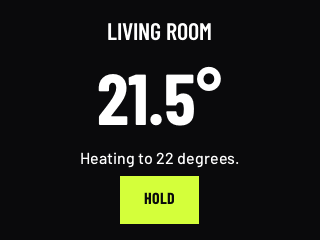
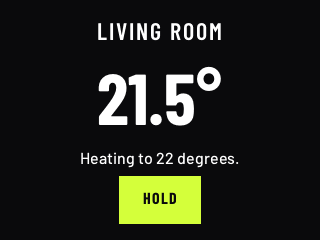
feat(signal): letter spacing for titles and labels
The design said that titles and labels have wide spacing, and gave no
number. The owner chose 8 percent of the size, in whole pixels: 2 px
for the title, 1 px for the label.

- The design file and the type tokens hold the two values.
- The typed themes space the text of a button.
- The example merges the title's token into its style.

diff --git a/tests/signal_type.cpp b/tests/signal_type.cpp
@@ -19,14 +19,16 @@ constexpr auto text = lv::signal::type_tokens.text;
 
 // The tokens are Signal's: design/signal/tokens.design.json, "type". `line` is the line
 // height in pixels, which the token holds as a multiple of the size.
-consteval bool is(const lv::token<lv::typography_token>& t, std::string_view family, int size, int weight, int line) {
+consteval bool is(const lv::token<lv::typography_token>& t, std::string_view family, int size, int weight, int line,
+                  int spacing = 0) {
   return t->font_family == family && t->font_size == size * px && t->font_weight == weight &&
-         static_cast<int>(size * t->line_height + 0.5) == line && t->letter_spacing == 0 * px;
+         static_cast<int>(size * t->line_height + 0.5) == line && t->letter_spacing == spacing * px;
 }
 static_assert(*lv::signal::type_tokens.font.display == "Barlow Condensed" && *lv::signal::type_tokens.font.text == "Barlow");
 static_assert(is(text.numeral_2xl, "Barlow Condensed", 208, 700, 176) && is(text.numeral_xl, "Barlow Condensed", 104, 700, 94));
 static_assert(is(text.numeral_l, "Barlow Condensed", 72, 700, 66) && is(text.numeral_m, "Barlow Condensed", 40, 700, 40));
-static_assert(is(text.title, "Barlow Condensed", 24, 600, 28) && is(text.label, "Barlow Condensed", 16, 700, 20));
+// Capitals with wide spacing: 8 percent of the size, in whole pixels.
+static_assert(is(text.title, "Barlow Condensed", 24, 600, 28, 2) && is(text.label, "Barlow Condensed", 16, 700, 20, 1));
 static_assert(is(text.body, "Barlow", 16, 500, 22) && is(text.caption, "Barlow", 13, 500, 18));
 
 static_assert(!lv::signal::dark_with_type.empty() && !lv::signal::day_with_type.empty());
@@ -97,6 +99,10 @@ void sets_text(lv::theme_styles theme, const char* reference) {
   lv_obj_t* button = lv_button_create(box);
   check(font_of(button) == label && font_of(lv_label_create(button)) == label);
   check(font_of(lv_label_create(lv_obj_create(button))) == label);
+  // The text of a button is spaced as `label` says; other text is not.
+  check(lv_obj_get_style_text_letter_space(button, LV_PART_MAIN) == 1);
+  check(lv_obj_get_style_text_letter_space(lv_label_create(button), LV_PART_MAIN) == 1);
+  check(lv_obj_get_style_text_letter_space(lv_label_create(screen), LV_PART_MAIN) == 0);
   // A widget that the theme leaves to LVGL has the font of the screen too.
   check(font_of(lv_checkbox_create(screen)) == body);
   lv_obj_clean(screen);

diff --git a/include/lv/signal.hpp b/include/lv/signal.hpp
@@ -36,12 +36,13 @@ inline constexpr auto hidden = lv::raw(lv::opa::transparent);
 
 // The font of a kind of text. An empty one sets nothing, and the text keeps LVGL's font.
 using font = lv::arg<lv::styled<const lv_font_t*>>;
+using spacing = lv::arg<lv::styled<lv::length>>;
 
 // Signal with the tokens of one of its themes. This is the one description of the look:
 // lv/signal_type.hpp calls it with Signal's fonts. `body` is the font of all text, and
 // `label` the font of the text of a control.
 template <const auto& Tok>
-consteval lv::theme_styles themed(font body = {}, font label = {}) {
+consteval lv::theme_styles themed(font body = {}, font label = {}, spacing label_spacing = {}) {
   return lv::theme({
       // A ring shows progress or a reading: square ends, no knob.
       .arc = {.style = {.arc_color = Tok.color.line, .arc_rounded = false, .arc_width = Tok.stroke.track},
@@ -59,7 +60,8 @@ consteval lv::theme_styles themed(font body = {}, font label = {}) {
                            .radius = Tok.radius._0,
                            .shadow_width = Tok.radius._0,
                            .text_color = Tok.color.on_active,
-                           .text_font = label},
+                           .text_font = label,
+                           .text_letter_space = label_spacing},
                  .style_pressed = {.bg_color = Tok.color.surface_raised,
                                    .color_filter_opa = hidden,
                                    .text_color = Tok.color.reading,

diff --git a/include/lv/signal_type.hpp b/include/lv/signal_type.hpp
@@ -80,7 +80,11 @@ inline constexpr lv::typeface numerals{
 inline constexpr auto body_font = type(type_tokens.text.body);
 inline constexpr auto label_font = type(type_tokens.text.label);
 
-inline constexpr lv::theme_styles dark_with_type = detail::themed<dark_tokens>(body_font, label_font);
-inline constexpr lv::theme_styles day_with_type = detail::themed<day_tokens>(body_font, label_font);
+
+// `label` is set with wide spacing: the space between its letters comes from the token too.
+inline constexpr auto label_spacing = lv::detail::part(type_tokens.text.label->letter_spacing);
+
+inline constexpr lv::theme_styles dark_with_type = detail::themed<dark_tokens>(body_font, label_font, label_spacing);
+inline constexpr lv::theme_styles day_with_type = detail::themed<day_tokens>(body_font, label_font, label_spacing);
 
 }  // namespace lv::signal

diff --git a/examples/signal_type/main.cpp b/examples/signal_type/main.cpp
@@ -23,7 +23,7 @@ constexpr auto reading = lv::signal::numerals(text.numeral_l);  // 72 px, the si
 constexpr auto ui = lv::column({.flex_align = {"center", "center", "center"},
                                 .size = {320 * px, 240 * px},
                                 .style = {.pad_gap = lv::signal::dark_tokens.space._2}})[
-    lv::label({.style = {.text_font = title}, .text = "LIVING ROOM"}),
+    lv::label({.style = lv::style({.text_font = title}) | text.title, .text = "LIVING ROOM"}),  // and its spacing
     lv::label({.style = {.text_font = reading}, .text = "21.5°"}),
     lv::label({.text = "Heating to 22 degrees."}),
     lv::button[lv::label({.text = "HOLD"})]];

diff --git a/design/signal/README.md b/design/signal/README.md
@@ -1,4 +1,4 @@
-Signal is the look of one family of eight devices: a smart thermostat, a smartwatch, a kitchen appliance, an e-bike display, a machine panel, an EV charger, a medical device and a vehicle instrument cluster. It is made to be drawn by a microcontroller and read at a glance.
+Signal is the look of one family of eight devices. They are a smart thermostat, a smartwatch, a kitchen appliance, an e-bike display, a machine panel, an EV charger, a medical device and a vehicle instrument cluster. It is made to be drawn by a microcontroller and read at a glance.
 
 ## Principles
 
@@ -40,7 +40,7 @@ A state is never colour alone. Each priority has a colour, a number of triangles
 - Numbers and titles are Barlow Condensed (`display`); everything else is Barlow (`text`). Both are under the SIL Open Font Licence, so they may be embedded in a device.
 - `numeral-2xl` (208 px): only the speed of a wide instrument cluster and the one reading of a large outdoor panel.
 - `numeral-xl` (104 px): the one reading of a watch face, a thermostat or a small display. `numeral-l` (72 px): the reading of a tile. `numeral-m` (40 px): a second value.
-- `title` and `label` are set in capitals with wide spacing: `TANK 2 LEVEL`, `ECO`. `body` and `caption` are sentence case.
+- `title` and `label` are set in capitals with wide spacing: `TANK 2 LEVEL`, `ECO`. The spacing is 8 percent of the size, in whole pixels: 2 px for `title`, 1 px for `label`. `body` and `caption` are sentence case.
 - A number always has its unit, in `muted`, one step smaller: `87 KM/H`, `4.8 bar`, `21.5°`.
 - Decimals: write a leading zero (`0.5`), never a trailing one (`5`, not `5.0`), on the medical device above all.
 

diff --git a/docs/themes.md b/docs/themes.md
@@ -64,7 +64,7 @@ constexpr auto reading = lv::signal::numerals(text.numeral_l);  // 72 px, the si
 constexpr auto ui = lv::column({.flex_align = {"center", "center", "center"},
                                 .size = {320 * px, 240 * px},
                                 .style = {.pad_gap = lv::signal::dark_tokens.space._2}})[
-    lv::label({.style = {.text_font = title}, .text = "LIVING ROOM"}),
+    lv::label({.style = lv::style({.text_font = title}) | text.title, .text = "LIVING ROOM"}),  // and its spacing
     lv::label({.style = {.text_font = reading}, .text = "21.5°"}),
     lv::label({.text = "Heating to 22 degrees."}),
     lv::button[lv::label({.text = "HOLD"})]];
@@ -90,6 +90,7 @@ Measured once on one machine, with `-Os` for the flash. The compile time comes o
 | `type` at `numeral-xl`, 104 px | 95 | about 21 s | 123 KB |
 
 - This cost is why the fonts are not in `lv/signal.hpp`. Include `lv/signal_type.hpp` in one file, and make each larger font once.
+- `title` and `label` are capitals with wide spacing. The themes space the text of a button; for a style of your own, merge the token: `lv::style({.text_font = title}) | text.title`.
 - A numeral style with all 95 characters takes six times the flash of `numerals`. Use `type` for it only when the reading has letters.
 - `numeral-2xl` is 208 px, and `numerals` makes it. `type` does not: 95 characters of that size need more compile-time work than lvgl26 allows. The build stops at GCC's `-fconstexpr-ops-limit`.
 - The fonts have no glyph for LVGL's symbols. A widget that draws one, such as the arrow of a drop-down list, shows an empty box in its place.
